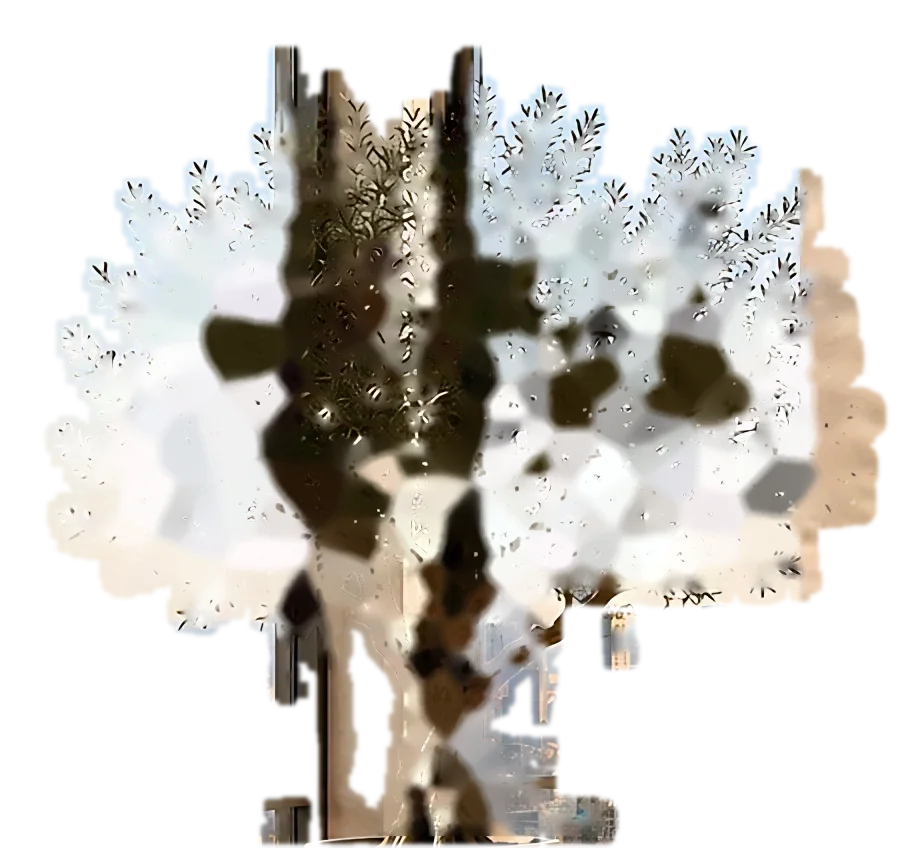
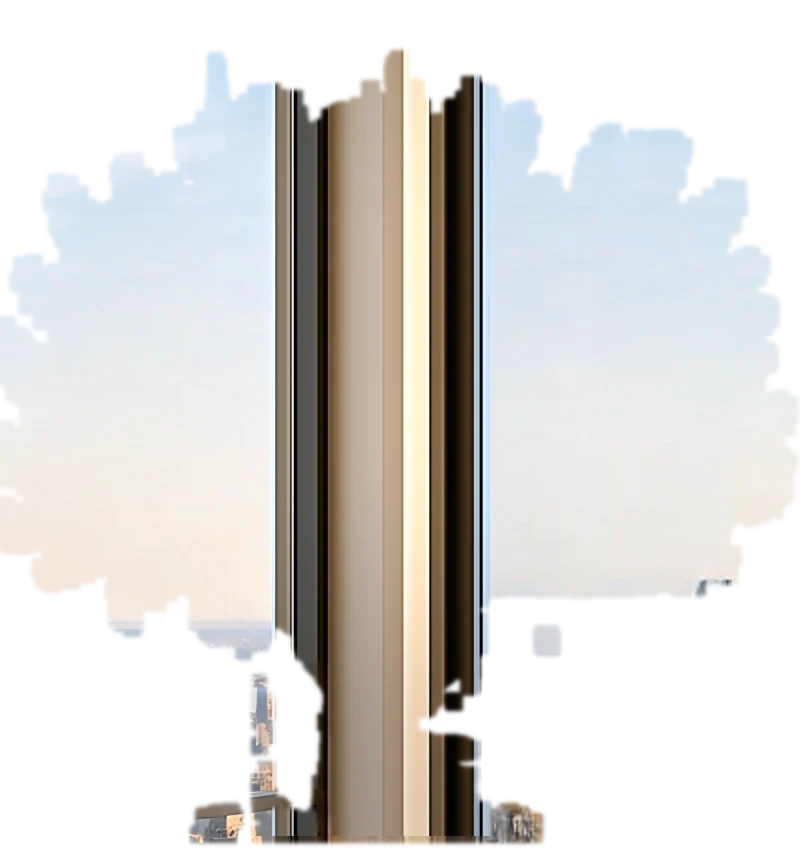
Home: move the olive tree and planter left so the canopy ends before the wall
The window behind the old position is redrawn per light (LaMa inpainting; the
window column carried straight down), the travel map moves with the planter,
and the breeze sprites now sway over that clean window. Wall stays x 400-1096;
the earlier breeze is unchanged. DL-56.

Claude-Session: https://claude.ai/code/session_01Q2iX8U4MkKUcYxVfpZrcab

diff --git a/src/content/scene.ts b/src/content/scene.ts
@@ -57,12 +57,12 @@ export const MAP = {
   label: '30+ countries and 60+ cities',
   href: '/about#outside-work',
   /** The leaning frame plus its caption on the floor below. */
-  hitbox: [214, 658, 130, 120] as Rect,
-  glow: [196, 636, 166, 118] as Rect,
+  hitbox: [178, 658, 130, 120] as Rect,
+  glow: [160, 636, 166, 118] as Rect,
 }
 
-/** The olive tree's canopy and trunk, down to the planter rim (RoomTree, docs/asset-lock/scripts/tree.py). */
-export const TREE_BOX: Rect = [0, 180, 460, 424]
+/** The olive tree's canopy and trunk, down to the planter rim (RoomTree, docs/asset-lock/scripts/tree2.py; moved left by treeshift2.py, DL-56). */
+export const TREE_BOX: Rect = [0, 180, 400, 424]
 
 export const pct = (v: number, of: number) => `${(v / of) * 100}%`
 export const rectStyle = ([x, y, w, h]: Rect) => ({ left: pct(x, SCENE.w), top: pct(y, SCENE.h), width: pct(w, SCENE.w), height: pct(h, SCENE.h) })

diff --git a/docs/asset-lock/scripts/treeshift2.py b/docs/asset-lock/scripts/treeshift2.py
@@ -1,0 +1,108 @@
+"""Move the olive tree and its pot left (Femi: the leaves spilled onto the widened wall). Runs on the unwidened renders,
+before wall2 / frames / lean, so the wall, plate and travel map are rebuilt around the moved tree.
+1. clean plate: the tree, pot and its contact shadow removed from each light with LaMa (big-lama), at master scale,
+   so the window, column, sky, city and floor behind them are re-drawn rather than smeared;
+2. matte: against that clean plate (sky, frame, column, post: the difference), olive colour/texture over the city,
+   the pot from GrabCut on its traced outline, and a feathered floor patch so the pot's contact shadow travels with it;
+3. the tree, pot and shadow pasted back D master px to the left, over the clean plate.
+Usage: treeshift2.py orig_dir out_dir   (writes {mode}-3072.webp and masks/tree.png, both moved)"""
+import cv2, numpy as np, sys, os, subprocess
+R, OUT = sys.argv[1:3]; S = 2; DM = 36; D = DM * S
+LAMA = os.path.dirname(os.path.abspath(__file__)) + '/../lama'
+os.makedirs(OUT + '/masks', exist_ok=True)
+CX0, CY0, CX1, CY1 = 0, 140, 488, 768            # work crop (master)
+mo = cv2.imread(R + '/morning-3072.webp'); H, W = mo.shape[:2]
+mf = mo.astype(np.float32)
+lum = mf @ np.array([.114, .587, .299], np.float32)
+gb = mf[..., 1] - mf[..., 0]
+sd = np.sqrt(np.clip(cv2.GaussianBlur(lum * lum, (0, 0), 2) - cv2.GaussianBlur(lum, (0, 0), 2) ** 2, 0, None))
+tex = np.clip((sd - 5) / 8, 0, 1)
+tm = cv2.imread(R + '/masks/tree.png', 0)
+zone_m = cv2.dilate(tm, np.ones((3, 3), np.uint8)) > 0                 # master
+zone = cv2.GaussianBlur(cv2.resize(zone_m.astype(np.uint8), (W, H), interpolation=cv2.INTER_NEAREST).astype(np.float32), (0, 0), 6)
+# --- pot: GrabCut seeded with its traced outline (master px)
+L = [(152, 603), (147, 620), (144, 642), (145, 660), (149, 680), (157, 697), (170, 713), (182, 720)]
+Rr = [(279, 601), (284, 615), (288, 642), (287, 660), (281, 685), (270, 705), (260, 716), (245, 720)]
+poly = np.int32(np.array(L + Rr[::-1]) * S)
+x0, y0, x1, y1 = 120 * S, 585 * S, 315 * S, 735 * S
+seed = np.zeros((H, W), np.uint8); cv2.fillPoly(seed, [poly], 1)
+gc = np.full((H, W), cv2.GC_BGD, np.uint8); gc[y0:y1, x0:x1] = cv2.GC_PR_BGD
+gc[seed > 0] = cv2.GC_PR_FGD; gc[cv2.erode(seed, np.ones((15, 15), np.uint8)) > 0] = cv2.GC_FGD
+sub = gc[y0:y1, x0:x1].copy()
+cv2.grabCut(mo[y0:y1, x0:x1], sub, None, np.zeros((1, 65)), np.zeros((1, 65)), 6, cv2.GC_INIT_WITH_MASK)
+pot = np.zeros((H, W), np.float32); pot[y0:y1, x0:x1] = np.isin(sub, (cv2.GC_FGD, cv2.GC_PR_FGD))
+pot = cv2.morphologyEx(pot, cv2.MORPH_OPEN, np.ones((5, 5), np.uint8))
+n, lab, st, _ = cv2.connectedComponentsWithStats((pot > 0).astype(np.uint8))
+if n > 1: pot = (lab == 1 + np.argmax(st[1:, cv2.CC_STAT_AREA])).astype(np.float32)
+pot = cv2.GaussianBlur(pot, (0, 0), .8)
+# floor around the pot's foot (its contact shadow) travels with it, feathered
+floor = np.zeros((H, W), np.float32); floor[704 * S:740 * S, 128 * S:310 * S] = 1
+floor = cv2.GaussianBlur(floor, (0, 0), 6 * S) * (np.arange(H)[:, None] > 698 * S)
+# --- 1. clean plates (LaMa at master scale over the work crop)
+hole_m = zone_m.copy()
+hole_m |= cv2.resize((pot > .02).astype(np.uint8), (1536, 1024), interpolation=cv2.INTER_AREA) > 0
+hole_m[700:742, 124:318] = True
+mos = cv2.resize(mf, (1536, 1024), interpolation=cv2.INTER_AREA); gbs = mos[..., 1] - mos[..., 0]
+ry, rx = np.arange(1024)[:, None], np.arange(1536)[None, :]
+stray = (rx < 440) & (ry > 190) & (((gbs > 8) & (ry < 430)) | ((gbs > 24) & (ry < 500)))   # tips in the sky; olive only near the skyline
+lums = mos @ np.array([.114, .587, .299], np.float32)
+stray |= (rx >= 245) & (rx < 420) & (ry >= 425) & (ry < 495) & ((gbs > 6) | (lums < 115))   # twigs crossing the skyline
+hole_m |= cv2.dilate(stray.astype(np.uint8), np.ones((5, 5), np.uint8)) > 0     # loose leaf tips beyond the hand mask                                         # the pot's shadow on the floor
+hole_m = cv2.dilate(hole_m.astype(np.uint8), np.ones((9, 9), np.uint8)) > 0
+crop_m = (slice(CY0, CY1), slice(CX0, CX1))
+cv2.imwrite(OUT + '/hole.png', hole_m[crop_m].astype(np.uint8) * 255)
+clean = {}
+for mode in ('morning', 'golden', 'night'):
+    im = cv2.imread(f'{R}/{mode}-3072.webp')
+    small = cv2.resize(im, (1536, 1024), interpolation=cv2.INTER_AREA)[crop_m]
+    cv2.imwrite(f'{OUT}/in-{mode}.png', small)
+    if not os.path.exists(f'{OUT}/lama-{mode}.png'):
+        subprocess.run([LAMA + '/env/bin/python', LAMA + '/lama.py', f'{OUT}/in-{mode}.png', OUT + '/hole.png', f'{OUT}/lama-{mode}.png'], check=True)
+    lm = cv2.imread(f'{OUT}/lama-{mode}.png').astype(np.float32)
+    up = cv2.resize(lm, ((CX1 - CX0) * S, (CY1 - CY0) * S), interpolation=cv2.INTER_CUBIC)
+    c = im.astype(np.float32).copy()
+    hm = cv2.resize(hole_m.astype(np.float32), (W, H), interpolation=cv2.INTER_LINEAR)
+    hm = cv2.GaussianBlur(hm, (0, 0), 2)[CY0 * S:CY1 * S, CX0 * S:CX1 * S, None]
+    c[CY0 * S:CY1 * S, CX0 * S:CX1 * S] = c[CY0 * S:CY1 * S, CX0 * S:CX1 * S] * (1 - hm) + up * hm
+    # frame, column and post (vertical, straight): their own clean top section carried down, following LaMa's light falloff
+    vx0, vx1, vy0, vy1 = 136 * S, 245 * S, 150 * S, 598 * S
+    top = im[vy0:vy0 + 40 * S, vx0:vx1].astype(np.float32).mean(0)                     # rows 150-190: above the canopy
+    lam = c[vy0:vy1, 164 * S:212 * S].mean(1)                                          # the beige column's light down its length
+    lw = np.array([.114, .587, .299], np.float32)
+    g = cv2.GaussianBlur((lam @ lw)[:, None], (0, 0), sigmaX=.1, sigmaY=30 * S)[:, 0] / float(top[28 * S:76 * S].mean(0) @ lw)
+    vert = np.clip(top[None] * np.clip(g, .6, 1.6)[:, None, None], 0, 255)
+    hv = cv2.GaussianBlur(cv2.resize(hole_m.astype(np.float32), (W, H))[vy0:vy1, vx0:vx1], (0, 0), 2)[..., None]
+    c[vy0:vy1, vx0:vx1] = c[vy0:vy1, vx0:vx1] * (1 - hv) + vert * hv
+    clean[mode] = c
+# --- 2. matte (geometry from the morning light, shared)
+cm = clean['morning']
+diff = np.abs(cv2.GaussianBlur(mf, (0, 0), .8) - cv2.GaussianBlur(cm, (0, 0), .8)).sum(2)
+a_diff = np.clip((diff - 30) / 40, 0, 1)                                # vs the clean plate: anything that is not the window
+strict = np.clip((gb - 27) / 10, 0, 1)
+loose = np.clip((gb - 6) / 10, 0, 1) * tex
+dark = np.clip((135 - lum) / 30, 0, 1) * tex
+Y = np.arange(H)[:, None] // S; X = np.arange(W)[None, :] // S
+ty = cv2.GaussianBlur(np.abs(cv2.Sobel(lum, cv2.CV_32F, 0, 1, ksize=3)), (0, 0), 1.2)
+tvy = np.clip((ty - 40) / 50, 0, 1)                                     # varies down the image: leaves, not frame/column/post
+tvy *= 1 - ((X >= 130) & (X < 250) & (Y < 330))                         # canopy top over the frame/column: olive only
+trunkbox = ((X >= 150) & (X < 265) & (Y >= 440)).astype(np.float32)
+a_tree = np.clip(a_diff * 2, 0, 1) * np.maximum(np.maximum(strict, tvy), np.maximum(loose * (1 - trunkbox), dark * trunkbox))
+a_tree[trunkbox > 0] = cv2.morphologyEx(a_tree, cv2.MORPH_CLOSE, np.ones((11, 11), np.uint8))[trunkbox > 0]
+a_tree = cv2.morphologyEx(a_tree, cv2.MORPH_CLOSE, np.ones((3, 3), np.uint8))
+a_tree *= np.clip(zone * 1.5, 0, 1); a_tree[606 * S:] = 0
+a_tree = cv2.GaussianBlur(a_tree, (0, 0), .6)
+alpha = np.maximum(np.maximum(a_tree, pot), floor)
+cv2.imwrite(OUT + '/matte.png', (alpha * 255).astype(np.uint8))
+def shift(a):
+    o = np.zeros_like(a); o[:, :W - D] = a[:, D:]; return o
+a_new = shift(alpha)[..., None]
+cv2.imwrite(OUT + '/matte-moved.png', (a_new[..., 0] * 255).astype(np.uint8))      # for the breeze sprite (tree2.py)
+tm2 = np.zeros_like(tm); tm2[:, :tm.shape[1] - DM] = tm[:, DM:]
+cv2.imwrite(OUT + '/masks/tree.png', tm2)
+for mode in ('morning', 'golden', 'night'):
+    im = cv2.imread(f'{R}/{mode}-3072.webp').astype(np.float32)
+    out = clean[mode] * (1 - a_new) + shift(im) * a_new
+    cv2.imwrite(f'{OUT}/clean-{mode}-3072.webp', np.clip(clean[mode], 0, 255).astype(np.uint8), [cv2.IMWRITE_WEBP_QUALITY, 95])   # the window without the tree
+    cv2.imwrite(f'{OUT}/{mode}-3072.webp', np.clip(out, 0, 255).astype(np.uint8), [cv2.IMWRITE_WEBP_QUALITY, 95])
+    cv2.imwrite(f'{OUT}/rv-{mode}.jpg', np.hstack([im[300:1500, 0:1000], clean[mode][300:1500, 0:1000], out[300:1500, 0:1000]]).astype(np.uint8), [1, 85])
+    print(mode, 'done')

diff --git a/docs/asset-lock/scripts/lean.py b/docs/asset-lock/scripts/lean.py
@@ -3,13 +3,14 @@ The frame leans back slightly (perspective), is lit like the planter's sunward f
 contact shadow on the floor and on the pot. Usage: lean.py plate_dir map.webp"""
 import cv2, numpy as np, sys
 D, MAPSRC = sys.argv[1:3]; S = 2
+DX = int(sys.argv[3]) if len(sys.argv) > 3 else 0      # the tree and pot moved left by -DX master px (treeshift2.py)
 art = cv2.imread(MAPSRC)[24:995, 18:1518].astype(np.float32)          # the frame itself
 h0, w0 = art.shape[:2]
 # target quad (master px): bottom on the floor, top leaning back against the pot
-Q = np.float32([[232, 664], [326, 664], [332, 732], [226, 732]]) * S   # propped against the pot's right side
+Q = (np.float32([[232, 664], [326, 664], [332, 732], [226, 732]]) + np.float32([DX, 0])) * S   # propped against the pot's right side
 src = np.float32([[0, 0], [w0, 0], [w0, h0], [0, h0]])
 M = cv2.getPerspectiveTransform(src, Q)
-POT = (200, 640, 80, 60)                                             # planter face used to read the light (master)
+POT = (200 + DX, 640, 80, 60)                                             # planter face used to read the light (master)
 ref = None
 for mode in ('morning', 'golden', 'night'):
     p = f'{D}/{mode}-3072.webp'; im = cv2.imread(p).astype(np.float32); H, W = im.shape[:2]
@@ -19,7 +20,7 @@ for mode in ('morning', 'golden', 'night'):
     Y = float(light @ np.array([.0722, .7152, .2126])); light = Y * (light / Y) ** .4
     # shadows first: contact shadow on the floor behind/below the frame, and the frame's shade on the pot to its left
     sh = np.zeros((H, W), np.float32)
-    cv2.fillConvexPoly(sh, np.int32([[226 * S, 727 * S], [334 * S, 727 * S], [352 * S, 739 * S], [222 * S, 739 * S]]), 1)
+    cv2.fillConvexPoly(sh, np.int32([[(226 + DX) * S, 727 * S], [(334 + DX) * S, 727 * S], [(352 + DX) * S, 739 * S], [(222 + DX) * S, 739 * S]]), 1)
     sh = cv2.GaussianBlur(sh, (0, 0), 3 * S) * .7
     pot_sh = np.zeros((H, W), np.float32); cv2.fillConvexPoly(pot_sh, np.int32(Q + np.float32([6 * S, -3 * S])), 1)
     sh = np.maximum(sh, cv2.GaussianBlur(pot_sh, (0, 0), 5 * S) * .42)   # occlusion where the frame rests on the pot
@@ -38,5 +39,5 @@ for mode in ('morning', 'golden', 'night'):
     cv2.imwrite(p, np.clip(out, 0, 255).astype(np.uint8), [cv2.IMWRITE_WEBP_QUALITY, 88])
     for wd in (2048, 1536):
         cv2.imwrite(f'{D}/{mode}-{wd}.webp', cv2.resize(np.clip(out, 0, 255), (wd, wd * 2 // 3), interpolation=cv2.INTER_AREA).astype(np.uint8), [cv2.IMWRITE_WEBP_QUALITY, 88])
-    cv2.imwrite(f'{D}/lean-{mode}.jpg', np.clip(out, 0, 255).astype(np.uint8)[1150:1560, 250:900], [1, 88])
+    cv2.imwrite(f'{D}/lean-{mode}.jpg', np.clip(out, 0, 255).astype(np.uint8)[1150:1560, max(0, 250 + 2 * DX):900 + 2 * DX], [1, 88])
     print(mode, 'light', np.round(light, 3))

diff --git a/docs/asset-lock/scripts/tree2.py b/docs/asset-lock/scripts/tree2.py
@@ -1,0 +1,32 @@
+"""Olive tree for the wind shader (RoomTree), after the tree was moved left (treeshift2.py): per light, a tree sprite
+(RGBA: the room's own pixels with the moved tree's matte) and a background patch (RGBA: the LaMa clean plate, the window
+re-drawn without the tree, only where the picture can change), so swaying leaves reveal real window, not smears.
+Box: master x 0-400, y 180-604; the canopy fades out before the wall (x 400) and stops above the pot rim.
+Usage: tree2.py plate_dir shift_dir out_dir"""
+import cv2, numpy as np, sys
+P, SH, OUT = sys.argv[1:4]; S = 2
+X0, Y0, X1, Y1 = 0, 180, 400, 604
+a = cv2.imread(SH + '/matte-moved.png', 0).astype(np.float32) / 255
+# below the skyline the moved matte also carries city around the trunk (harmless in the still, wrong if it sways):
+# keep only olive, or dark textured bark, there
+mo = cv2.imread(P + '/morning-3072.webp').astype(np.float32)
+lum = mo @ np.array([.114, .587, .299], np.float32); gb = mo[..., 1] - mo[..., 0]
+sd = np.sqrt(np.clip(cv2.GaussianBlur(lum * lum, (0, 0), 2) - cv2.GaussianBlur(lum, (0, 0), 2) ** 2, 0, None))
+leafy = np.maximum(np.clip((gb - 20) / 10, 0, 1), np.clip((140 - lum) / 30, 0, 1) * np.clip((sd - 5) / 8, 0, 1))
+leafy = cv2.GaussianBlur(cv2.morphologyEx(leafy, cv2.MORPH_CLOSE, np.ones((5, 5), np.uint8)), (0, 0), .8)
+low = np.clip((np.arange(a.shape[0], dtype=np.float32)[:, None] / S - 462) / 16, 0, 1)
+a *= 1 - low * (1 - leafy)
+a[(Y1 - 6) * S:] = 0                                              # the pot stays put
+xs = np.arange(a.shape[1], dtype=np.float32)[None, :] / S
+a *= np.clip((396 - xs) / 4, 0, 1)
+y0, y1, x0, x1 = Y0 * S, Y1 * S, X0 * S, X1 * S
+A = a[y0:y1, x0:x1]
+hole = cv2.dilate((A > .05).astype(np.uint8), np.ones((15, 15), np.uint8)) > 0
+for mode in ('morning', 'golden', 'night'):
+    crop = cv2.imread(f'{P}/{mode}-3072.webp')[y0:y1, x0:x1]
+    clean = cv2.imread(f'{SH}/clean-{mode}-3072.webp')[y0:y1, x0:x1]
+    cv2.imwrite(f'{OUT}/tree-{mode}.webp', np.dstack([crop, (A * 255).astype(np.uint8)]), [cv2.IMWRITE_WEBP_QUALITY, 88])
+    ba = cv2.GaussianBlur(hole.astype(np.float32), (0, 0), 2) * 255
+    cv2.imwrite(f'{OUT}/bg-{mode}.webp', np.dstack([clean, ba.astype(np.uint8)]), [cv2.IMWRITE_WEBP_QUALITY, 85])
+    cv2.imwrite(f'{OUT}/prev-{mode}.jpg', np.hstack([crop, clean, cv2.cvtColor((A * 255).astype(np.uint8), cv2.COLOR_GRAY2BGR)]), [1, 80])
+    print(mode, crop.shape)

diff --git a/docs/asset-lock/scripts/lama.py b/docs/asset-lock/scripts/lama.py
@@ -1,0 +1,14 @@
+"""LaMa (big-lama TorchScript) inpainting. Usage: lama.py image.png mask.png out.png  (mask: 255 = fill)"""
+import sys, numpy as np, torch, cv2
+torch.set_num_threads(max(1, torch.get_num_threads()))
+img_p, mask_p, out_p = sys.argv[1:4]
+model = torch.jit.load(__file__.rsplit('/', 1)[0] + '/big-lama.pt', map_location='cpu').eval()
+im = cv2.cvtColor(cv2.imread(img_p), cv2.COLOR_BGR2RGB).astype(np.float32) / 255
+m = (cv2.imread(mask_p, 0) > 127).astype(np.float32)
+H, W = m.shape
+ph, pw = (8 - H % 8) % 8, (8 - W % 8) % 8
+im = np.pad(im, ((0, ph), (0, pw), (0, 0)), mode='reflect'); m = np.pad(m, ((0, ph), (0, pw)), mode='reflect')
+with torch.inference_mode():
+    out = model(torch.from_numpy(im).permute(2, 0, 1)[None], torch.from_numpy(m)[None, None])
+out = out[0].permute(1, 2, 0).numpy()[:H, :W]
+cv2.imwrite(out_p, cv2.cvtColor(np.clip(out * 255, 0, 255).astype(np.uint8), cv2.COLOR_RGB2BGR))

diff --git a/docs/decision-log.md b/docs/decision-log.md
@@ -60,3 +60,4 @@ Newest last. Each entry records the decision, why it was made and what would rev
 | DL-53 | 2026-10-15 | 5 | **Résumé available on request, behind a passcode.** `/resume` carries no résumé content until a server action accepts the passcode. The repo stores only a salted scrypt hash, never the passcode, and `RESUME_PASSCODE` in the hosting environment can replace it. Wrong attempts are slowed. Unlock lasts for the browser tab. The page is `noindex`, with a "Request access" email. The public-PDF shortcut on Home is removed, so the Home strip links to `/resume`. A résumé PDF must never go in `public/`. | Femi: "put the resume behind a pass, it should be available upon request" | — |
 | DL-54 | 2026-10-15 | 5 | **Request access opens a form** (full name, email, phone; all required; honeypot for bots). It's delivered to femi@femifalade.com by **FormSubmit** (formsubmit.co: no account or key; the first submission triggers a one-time activation email). The subject is "Resume request from [name]", with reply-to set to the requester. A mailto fallback appears on failure. Separately, **"Résumé" becomes "Resume" site-wide.** | Femi: the request should be a form with name, email and phone sent to his email; remove the accents | Femi prefers another email service (e.g. Resend with an API key) |
 | DL-55 | 2026-10-15 | 6 | The light selector shows only the New York clock as a time. The options are **Morning, Afternoon, Night**, with no hour ranges, and "Golden hour" is renamed **Afternoon**. The internal light id stays `golden`, so assets and saved choices are unchanged. | Femi: "Only keep the current time in NYC… call golden hour 'afternoon'" | — |
+| DL-56 | 2026-10-20 | 6/7 | **The olive tree and planter move 36 px left** (master), so the canopy finishes in front of the window with clear glass before the wall. The wall stays x 400–1096 and the earlier breeze is unchanged. The window behind the old position is redrawn by LaMa inpainting per light (window column and post carried straight down), and the travel map moves with the planter. The breeze sprites now sit over that clean window, so swaying leaves reveal real glass, not smears. The sky masks exclude the moved canopy. Scripts: treeshift2.py → wall2.py → frames.py → lean.py (−36) → tree2.py. | Femi: the leaves spilled onto the wall and the tree didn't look realistic enough. He chose "Move tree left" over narrowing the wall (PR #8 was reverted). | — |
